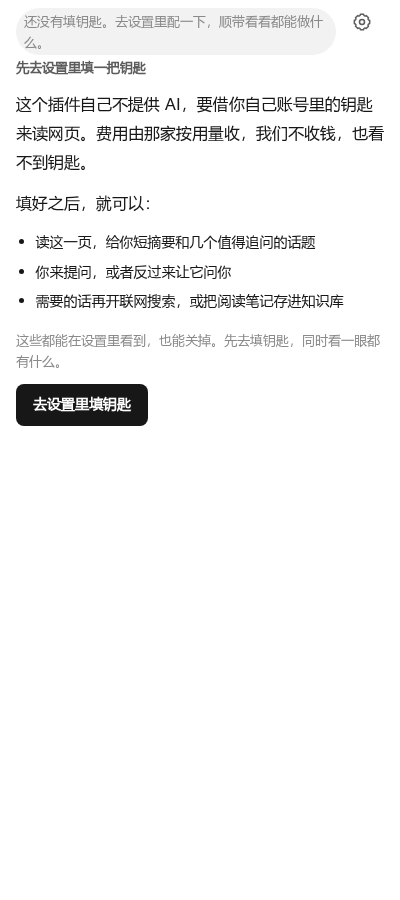
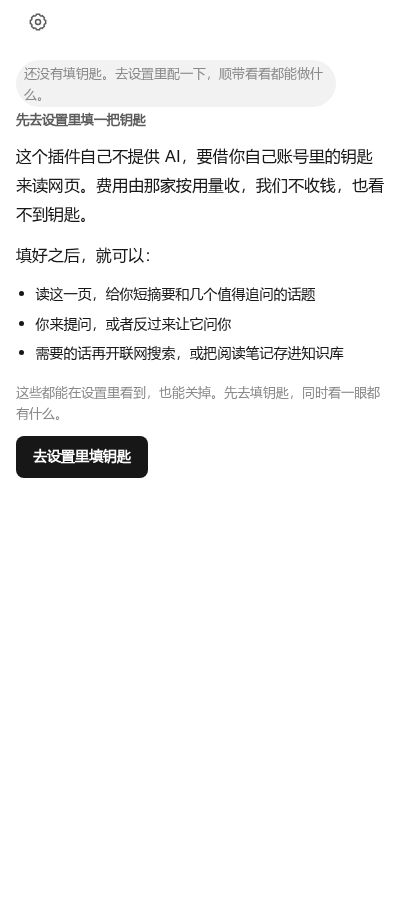
webknow-ai v0.9.1：修复图表回答与失败后追问，调整设置入口

diff --git a/tests/e2e/recovery-diagram.spec.ts b/tests/e2e/recovery-diagram.spec.ts
@@ -1,0 +1,112 @@
+import { createServer, type Server } from 'node:http';
+import { mkdtempSync } from 'node:fs';
+import { tmpdir } from 'node:os';
+import { join, resolve } from 'node:path';
+
+import { chromium, expect, test, type BrowserContext } from '@playwright/test';
+
+const EXTENSION_PATH = resolve(process.cwd(), '.output/chrome-mv3-e2e');
+const ANSWER = '可以画成流程：\n\n```mermaid\nflowchart TD\n  A[开始] --> B[结束]\n```\n\n图下还有说明。';
+const article = `<!doctype html><html lang="zh-CN"><head><meta charset="utf-8"><title>城市配送试点研究</title></head>
+<body><main><article><h1>城市配送试点研究</h1>
+<p>本研究观察三个配送团队四周，比较新的路径方案与原有方案的处理时间。</p>
+<p>试点期间，新方案的平均处理时间为八十分钟，原方案为一百分钟。</p>
+</article></main></body></html>`;
+
+let server: Server;
+let context: BrowserContext;
+let origin: string;
+let extensionId: string;
+
+test.beforeAll(async () => {
+  server = createServer((_request, response) => {
+    response.writeHead(200, { 'Content-Type': 'text/html; charset=utf-8' });
+    response.end(article);
+  });
+  await new Promise<void>((done) => server.listen(0, '127.0.0.1', done));
+  origin = `http://127.0.0.1:${(server.address() as { port: number }).port}`;
+
+  context = await chromium.launchPersistentContext(mkdtempSync(join(tmpdir(), 'wka-recovery-')), {
+    channel: 'chromium',
+    args: [`--disable-extensions-except=${EXTENSION_PATH}`, `--load-extension=${EXTENSION_PATH}`],
+  });
+  const worker = context.serviceWorkers()[0] ?? (await context.waitForEvent('serviceworker'));
+  extensionId = new URL(worker.url()).host;
+  await worker.evaluate(async () => {
+    await chrome.storage.local.set({
+      config: {
+        apiKeys: { deepseek: 'sk-test-not-real' },
+        outbound: { version: '2026-09-19.2', acceptedAt: Date.now(), receiver: 'DeepSeek（深度求索）' },
+      },
+    });
+  });
+});
+
+test.afterAll(async () => {
+  await context?.close();
+  await new Promise<void>((done) => server?.close(() => done()));
+});
+
+test('无效回答后能继续提问，含 Mermaid 的有效回答画成图', async () => {
+  test.setTimeout(120_000);
+  const requests: string[] = [];
+  await context.route('https://api.deepseek.com/chat/completions', async (route) => {
+    const body = route.request().postDataJSON() as { messages: { content: string }[] };
+    const question = body.messages.at(-1)?.content ?? '';
+    requests.push(question);
+    const output = requests.length === 1
+      ? { summary: '试点缩短了平均配送时间。', bubbles: [] }
+      : requests.length === 2
+        ? '{INVALID JSON'
+        : { answer: ANSWER, source: 'supplement', citations: [], unanswered: [], followUps: [] };
+    const text = typeof output === 'string' ? output : JSON.stringify(output);
+    await route.fulfill({
+      status: 200,
+      contentType: 'text/event-stream',
+      body: `data: ${JSON.stringify({ choices: [{ delta: { content: text }, finish_reason: 'stop' }] })}\n\ndata: [DONE]\n\n`,
+    });
+  });
+
+  const panel = await context.newPage();
+  await panel.goto(`chrome-extension://${extensionId}/sidepanel.html`);
+  const page = await context.newPage();
+  await page.goto(`${origin}/article.html`);
+  await page.bringToFront();
+  const tabId = await panel.evaluate(async () => (await chrome.tabs.query({ active: true, currentWindow: true }))[0]?.id ?? null);
+  expect(tabId).not.toBeNull();
+  const worker = context.serviceWorkers()[0]!;
+  await worker.evaluate(async ([id, url, org]) => {
+    await chrome.storage.session.set({ [`pending:${id}`]: { url, origin: org, at: Date.now() } });
+  }, [tabId, `${origin}/article.html`, origin] as const);
+  await panel.reload();
+  await panel.getByRole('button', { name: '总结摘要' }).click();
+  await expect(panel.getByText('试点缩短了平均配送时间。')).toBeVisible({ timeout: 20_000 });
+
+  const input = panel.getByLabel('向这篇文章提问');
+  await input.fill('第一次为什么更快？');
+  await panel.getByRole('button', { name: '发送' }).click();
+  await expect(panel.getByRole('alert').getByText('这次生成的内容没法用，没有采用。可以再试一次。')).toBeVisible({ timeout: 20_000 });
+  await expect(panel.getByRole('button', { name: '发送' })).toBeEnabled();
+  await expect(input).toHaveValue('第一次为什么更快？');
+
+  await input.fill('第二次画个流程图。');
+  await panel.getByRole('button', { name: '发送' }).click();
+  await expect(panel.getByRole('status').getByText('这次生成的内容没法用，没有采用。可以再试一次。')).toBeHidden();
+  await expect(panel.locator('.diagram svg')).toBeVisible({ timeout: 30_000 });
+  await expect(panel.getByText('图下还有说明。')).toBeVisible();
+  await expect(panel.getByRole('alert')).toBeHidden();
+  expect(await worker.evaluate(async (id) => {
+    const stored = await chrome.storage.session.get(`sess:${id}`);
+    const session = stored[`sess:${id}`] as { chat: { question: string; answer: string }[]; state: string; run: unknown };
+    return { chat: session.chat, state: session.state, run: session.run };
+  }, tabId)).toMatchObject({
+    chat: [{ question: '第二次画个流程图。', answer: expect.stringContaining('flowchart TD') }],
+    state: 'READY',
+    run: null,
+  });
+  expect(requests).toHaveLength(3);
+  expect(requests[1]).toContain('第一次为什么更快？');
+  expect(requests[2]).toContain('第二次画个流程图。');
+  await panel.close();
+  await page.close();
+});

diff --git a/tests/e2e/widths.spec.ts b/tests/e2e/widths.spec.ts
@@ -260,6 +260,27 @@ test('划词会出现在提问框上面，针对这段再问', async () => {
   await panel.close();
 });
 
+test('报错时设置与文章标题同排，错误提示不被齿轮遮挡', async () => {
+  const { panel, tabId } = await openPanel(360);
+  await context.serviceWorkers()[0]!.evaluate(async (id) => {
+    const stored = await chrome.storage.session.get(`sess:${id}`);
+    const session = stored[`sess:${id}`] as Record<string, unknown>;
+    session.error = { code: 'BAD_OUTPUT', message: '这次生成的内容没法用，没有采用。可以再试一次。', retryable: true };
+    await chrome.storage.session.set({ [`sess:${id}`]: session });
+  }, tabId);
+  await pushState(panel, tabId);
+
+  const title = await panel.locator('.page-title').boundingBox();
+  const settings = await panel.getByRole('button', { name: '设置' }).boundingBox();
+  const warning = await panel.getByRole('alert').boundingBox();
+  expect(title).not.toBeNull();
+  expect(settings).not.toBeNull();
+  expect(warning).not.toBeNull();
+  expect(Math.abs(title!.y - settings!.y)).toBeLessThan(44);
+  expect(warning!.y).toBeGreaterThanOrEqual(Math.max(title!.y + title!.height, settings!.y + settings!.height));
+  await panel.close();
+});
+
 test('READY 视图在三种宽度下排版正确', async () => {
   test.setTimeout(120_000);
   for (const width of WIDTHS) {
@@ -464,7 +485,7 @@ function isDark(page: Page, selector: string): Promise<boolean> {
   }, selector);
 }
 
-test('设置贴在右上角，页标题顶上来，滚下去也不挡住模式', async () => {
+test('文章标题与设置始终同排，模式条在下面且不被遮挡', async () => {
   test.setTimeout(120_000);
   const { panel } = await openPanel(560);
   await panel.setViewportSize({ width: 560, height: 360 });
@@ -472,8 +493,8 @@ test('设置贴在右上角，页标题顶上来，滚下去也不挡住模式',
   const gear = await panel.getByRole('button', { name: '设置' }).boundingBox();
   const title = await panel.locator('.page-title').boundingBox();
   expect(gear!.y).toBeLessThanOrEqual(1);
-  // 页标题跟设置同一行起笔，不再被一条空的产品名栏压下去。
-  expect(title!.y).toBeLessThanOrEqual(8);
+  expect(title!.y).toBeGreaterThanOrEqual(gear!.y);
+  expect(title!.y + title!.height).toBeLessThanOrEqual(gear!.y + gear!.height);
   expect(title!.x + title!.width).toBeLessThanOrEqual(gear!.x + 1);
   await panel.screenshot({ path: join(OUTPUT_DIR, 'header-top.png') });
 
@@ -491,8 +512,7 @@ test('设置贴在右上角，页标题顶上来，滚下去也不挡住模式',
   const stuckGear = await panel.getByRole('button', { name: '设置' }).boundingBox();
   const tab = await panel.getByRole('tab', { name: '问 AI' }).boundingBox();
   expect(stuckGear!.y).toBeLessThanOrEqual(1);
-  expect(tab!.x + tab!.width).toBeLessThanOrEqual(stuckGear!.x + 1);
-  // 设置浮在模式条上面，但点模式字仍然能切过去。
+  expect(tab!.y).toBeGreaterThanOrEqual(stuckGear!.y + stuckGear!.height);
   await panel.getByRole('tab', { name: 'AI 问' }).click();
   await expect(panel.getByRole('tab', { name: 'AI 问' })).toHaveAttribute('aria-selected', 'true');
   await panel.screenshot({ path: join(OUTPUT_DIR, 'header-stuck.png') });

diff --git a/entrypoints/sidepanel/style.css b/entrypoints/sidepanel/style.css
@@ -64,9 +64,8 @@
   --space-5: 24px;
   --space-6: 32px;
 
-  /* 模式条吸在视口顶上，和右上角的设置同一行。保持 0：
-     改成正数会在模式条上面留出一条缝，正文从缝里穿过去。 */
-  --topbar-h: 0px;
+  /* 文章标题与设置占一行；模式条在它下面吸顶。 */
+  --topbar-h: 44px;
 
   --font: -apple-system, BlinkMacSystemFont, "SF Pro Text", "PingFang SC",
     "Hiragino Sans GB", "Microsoft YaHei", system-ui, sans-serif;
@@ -180,26 +179,24 @@ body {
   height: 16px;
 }
 
-/* ── 顶部：设置浮在右上角，不占一整行 ───────────────────────── */
+/* ── 顶部：文章标题与设置共用一行，错误提示独占下一行 ─────── */
 
 .panel-header {
-  position: sticky;
-  top: 0;
-  z-index: 3;
-  /* 高度用来给按钮留点击区，负外边距把它从文档流里抽走，页标题才能顶上来。 */
-  height: 44px;
-  margin-bottom: -44px;
   display: flex;
-  align-items: flex-start;
-  justify-content: flex-end;
-  padding: 0;
-  background: transparent;
-  pointer-events: none;
+  align-items: center;
+  justify-content: space-between;
+  gap: var(--space-2);
+  min-height: 44px;
+}
+
+.panel-header .page-title {
+  flex: 1;
+  min-width: 0;
+  margin: 0;
 }
 
 .panel-header .icon-btn {
-  pointer-events: auto;
-  background: var(--paper);
+  flex: none;
 }
 
 .brand-seal {
@@ -260,13 +257,17 @@ body {
 }
 
 .context {
-  /* 右侧让开 44px 的设置按钮，长标题不会钻到图标下面。 */
-  padding: 0 48px var(--space-2) 0;
+  position: sticky;
+  top: 0;
+  z-index: 3;
+  flex: none;
+  background: var(--paper);
+  padding-bottom: var(--space-2);
 }
 
-/* ── 模式切换：文字标签 + 一条 2px 下划线，吸在视口顶上 ───────
+/* ── 模式切换：文字标签 + 一条 2px 下划线，吸在标题下方 ───────
    两张大卡片会和下面的话题卡片、回答卡片叠成三层盒子。这里只留文字：
-   选中态靠字色与下划线表达，不靠色块。滚下去后和右上角的设置同一行。 */
+   选中态靠字色与下划线表达，不靠色块。 */
 
 .modes {
   position: sticky;
@@ -274,7 +275,7 @@ body {
   z-index: 2;
   display: flex;
   gap: var(--space-5);
-  padding: 0 48px 0 0;
+  padding: 0;
   margin: 0 0 var(--space-4);
   background: var(--paper);
   border-bottom: 1px solid var(--line-soft);

diff --git a/src/sidepanel/App.tsx b/src/sidepanel/App.tsx
@@ -89,6 +89,7 @@ export function App() {
   }, [quoteText]);
 
   const send = useCallback(async (command: Command): Promise<Reply | undefined> => {
+    setNotice(null);
     const reply = await clientRef.current?.send(command);
     if (reply && !reply.ok) setNotice(reply.error.message);
     else if (reply?.message) setNotice(reply.message);
@@ -170,17 +171,21 @@ export function App() {
       className="panel"
       style={state?.settings.fontSize === 'large' ? { zoom: 1.15 } : undefined}
     >
-      <header className="panel-header">
-        <button
-          type="button"
-          className="icon-btn"
-          onClick={() => openSettings()}
-          aria-label="设置"
-          title="设置"
-        >
-          <Icon name="settings" />
-        </button>
-      </header>
+      <div className="context">
+        <header className="panel-header">
+          {state?.pageTitle && <p className="page-title">{state.pageTitle}</p>}
+          <button
+            type="button"
+            className="icon-btn"
+            onClick={() => openSettings()}
+            aria-label="设置"
+            title="设置"
+          >
+            <Icon name="settings" />
+          </button>
+        </header>
+        <ScopeLine completeness={state?.completeness ?? null} />
+      </div>
 
       {notice && <Notice text={notice} onDismiss={() => setNotice(null)} />}
       {state?.error && <ErrorBanner error={state.error} />}
@@ -189,13 +194,6 @@ export function App() {
         <p className="hint">正在连接后台…</p>
       ) : (
         <>
-          {(state.pageTitle || state.completeness) && (
-            <div className="context">
-              {state.pageTitle && <p className="page-title">{state.pageTitle}</p>}
-              <ScopeLine completeness={state.completeness} />
-            </div>
-          )}
-
           {phaseText && (
             <p className="phase" role="status" aria-live="polite">
               {phaseText}

diff --git a/tests/model-call.test.ts b/tests/model-call.test.ts
@@ -61,6 +61,21 @@ describe('parseJsonLoose', () => {
     expect(parseJsonLoose('好的，结果如下：{"a":1}')).toEqual({ a: 1 });
     expect(parseJsonLoose('完全不是 JSON')).toBeUndefined();
   });
+
+  it('正文中的 mermaid 代码块不被误当成包裹整个 JSON 的围栏', () => {
+    const response = JSON.stringify({
+      answer: '先说明。\n\n```mermaid\nflowchart TD\n  A[开始] --> B[结束]\n```',
+      source: 'original',
+      citations: ['b_1'],
+      unanswered: [],
+    });
+    expect(parseJsonLoose(response)).toEqual({
+      answer: '先说明。\n\n```mermaid\nflowchart TD\n  A[开始] --> B[结束]\n```',
+      source: 'original',
+      citations: ['b_1'],
+      unanswered: [],
+    });
+  });
 });
 
 describe('chatJson', () => {

diff --git a/src/core/model-call.ts b/src/core/model-call.ts
@@ -125,11 +125,11 @@ async function failureHint(
 /** 模型偶尔会包上代码块或前后缀；这里只做容忍解析，不做猜测性修补。 */
 export function parseJsonLoose(text: string): unknown {
   const trimmed = text.trim();
-  const fenced = /```(?:json)?\s*([\s\S]*?)```/.exec(trimmed);
-  const candidate = (fenced?.[1] ?? trimmed).trim();
   try {
-    return JSON.parse(candidate);
+    return JSON.parse(trimmed);
   } catch {
+    const fenced = /^```(?:json)?\s*\n([\s\S]*?)\n```\s*$/.exec(trimmed);
+    const candidate = (fenced?.[1] ?? trimmed).trim();
     const start = candidate.indexOf('{');
     const end = candidate.lastIndexOf('}');
     if (start >= 0 && end > start) {

diff --git a/README.md b/README.md
@@ -122,9 +122,9 @@ chrome://extensions
 
 - **调宽窄**：把鼠标移到侧栏和网页之间的分隔线上，按住往两边拖，就能调宽调窄；你调到的宽度浏览器会自己记住，下次打开还是这个宽度。
 - **切换两件事**：侧栏顶部有两个模式——**问 AI**（摘要、话题、自己提问）和 **AI 问**（它反过来考你）。随时能切，进度和你没发出去的问题都不会因为切走而丢。
-- **改设置**：点侧栏右上角的"设置"，会**新开一个整页的设置标签页**（左边是分类：通用、模型、提示词、技能、联网搜索、知识库、数据、关于），改完直接关掉那个标签页就行——阅读的事还是回到侧栏里做。
+- **改设置**：文章标题右侧的齿轮就是「设置」（位于浏览器标题栏下方，不会遮住错误提示）。点它会**新开一个整页的设置标签页**（左边是分类：通用、模型、提示词、技能、联网搜索、知识库、数据、关于），改完直接关掉那个标签页就行——阅读的事还是回到侧栏里做。
 - **想看话题**：点摘要下面那一排卡片，点一张就发出去，整排都收起。答完后，新的联想问题出现在这条回答下面，接着点、接着问。
-- **想自己问**：在最下面的输入框里写问题，点"发送"。也可以在网页上划一段话，点「问这句」，再写问题——回答会针对这段原文。
+- **想自己问**：在最下面的输入框里写问题，点"发送"。也可以在网页上划一段话，点「问这句」，再写问题——回答会针对这段原文。遇到「这次生成的内容没法用」时，本轮不会写入对话；你可以继续提问。回答中的 Mermaid 图表会画出来；在设置里关闭图表后显示源码。
 - **想知道自己看懂没有**：切到 **AI 问**，再点一张卡片。它会围着这个点问你——可能是几道选择题，也可能是让你用自己的话回答（可以在设置里固定成其中一种）。点过的卡片不会再出现。
   - 开放问题答不上来有四个按钮随时可用：**给我提示**、**直接讲解**、**跳过**、**结束学习**；选择题轮把选项勾好点**提交答案**，也可以**直接讲解**或**跳过这一轮**。
   - 选择题提交后它会给你逐题判定和整轮分析，并根据错在哪里组织后续问题。
